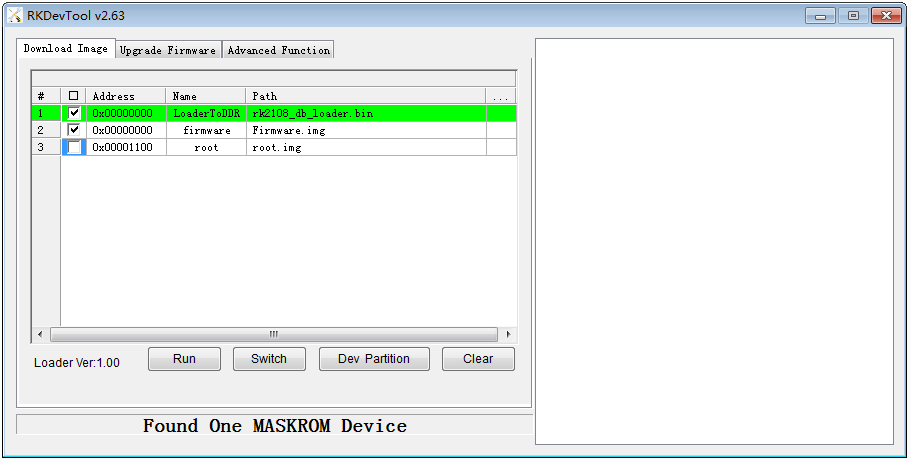
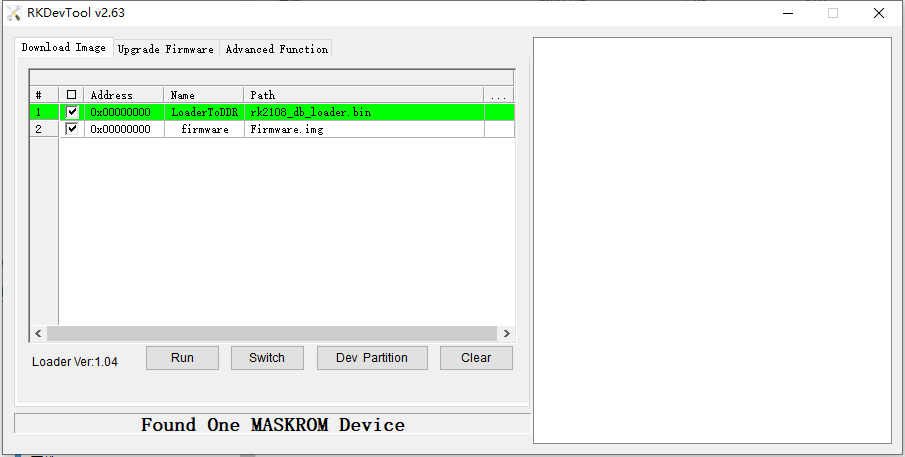
Dept3: Update Rockchip_RK2108_Quick_Start_RT-Thread V1.3.0
Add rootfs packaging instructions

Changed region(s): [[0.0, 0.0, 1.0, 1.0]]

diff --git a/Dept3/RTOS/RT-Thread/RK2108/Rockchip_RK2108_Quick_Start_RT-Thread_CN/Rockchip_RK2108_Quick_Start_RT-Thread_EN.md b/Dept3/RTOS/RT-Thread/RK2108/Rockchip_RK2108_Quick_Start_RT-Thread_CN/Rockchip_RK2108_Quick_Start_RT-Thread_EN.md
@@ -2,9 +2,9 @@
 
 ID: RK-JC-YF-362
 
-Release Version: V1.2.0
+Release Version: V1.3.0
 
-Release Date: 2020-06-11
+Release Date: 2020-12-30
 
 Security Level: □Top-Secret   □Secret   □Internal   ■Public
 
@@ -58,11 +58,12 @@ Software development engineers
 
 **Revision History**
 
-| **Date**   | **Version** | **Author**  | **Revision History**        |
-| ---------- | ----------- | ----------- | --------------------------- |
-| 2019-02-20 | V1.0.0      | Cliff Chen  | Initial version             |
-| 2020-05-14 | V1.1.0      | Chris Zhong | Delete unnecessary chapters |
-| 2020-06-11 | V1.2.0      | Ruby Zhang  | Update the company name     |
+| **Date**   | **Version** | **Author**  | **Revision History**              |
+| ---------- | ----------- | ----------- | --------------------------------- |
+| 2019-02-20 | V1.0.0      | Cliff Chen  | Initial version                   |
+| 2020-05-14 | V1.1.0      | Chris Zhong | Delete unnecessary chapters       |
+| 2020-06-11 | V1.2.0      | Ruby Zhang  | Update the company name           |
+| 2020-12-30 | V1.3.0      | Jair Wu     | Add rootfs packaging instructions |
 
 ---
 
@@ -231,6 +232,10 @@ scons -h
 
 The purpose of firmware packaging is to package various firmwares required by the system, such as partition table, loader, OS and root file system. The firmware packaging script of RK2108 is: bsp/rockchip/rk2108/mkimage.sh. The current building script will automatically trigger the firmware packaging after building is completed, so you only need to execute the `./build.sh` command once to complete the building and packaging.
 
+### Rootfs Package
+
+The rootfs packaging script is: bsp/rockchip/rk2108/mkroot.sh, enter the directory bsp/rockchip/rk2108, excute `./mkroot.sh resource/userdata/normal board/common/setting.ini`, the root.img will be generated in Image/. The script will make the file or directory in the specified directory into a Fat format file system, the size of root.img is determined by the PartSize of root partition in setting.ini.
+
 ## Firmware Flash
 
 Before flashing the firmware, the board should be in upgrade mode. RK2108 supports two upgrade modes: Loader mode and MaskRom mode. The following are the ways to enter these 2 modes:
@@ -268,6 +273,10 @@ The first item“LoaderToDDR” select  bsp/rockchip/rk2108/Image/rk2108_db_load
 
 The second item “Firmware” select  bsp/rockchip/rk2108/Image/Firmware.img.
 
+![windows_upgrade_withroot](./resources/windows_upgrade_withroot_EN.png)
+
+If rootfs is needed, right-click the blank of the tool, add item, the Name is "rootfs", the Path is bsp/rockchip/rk2108/Image/root.img, the Address is the PartOffset of root partition in setting.ini under the board directory which you use (if the file not exist, the default choice is board/common/setting.ini), take board/common/setting.ini as example, the Address should be 0x1100.
+
 ### Linux Upgrade Tool and Command
 
 The following script can be used to complete the firmware flashing under the Linux system:
@@ -284,6 +293,18 @@ Actually, it called the following command to complete the flashing:
 ../tools/upgrade_tool wl 0 Image/Firmware.img
 ../tools/upgrade_tool rd
 ```
+
+If rootfs is needed, refer to these commands as follows:
+
+```shell
+#!/bin/sh
+../tools/upgrade_tool db Image/rk2108_db_loader.bin
+../tools/upgrade_tool wl 0 Image/Firmware.img
+../tools/upgrade_tool wl 0x1100 Image/root.img
+../tools/upgrade_tool rd
+```
+
+Please refer to [Windows Upgrade Tool](# Windows Upgrade Tool) for the description of the address.
 
 ## Run and Debug
 

diff --git a/Dept3/RTOS/RT-Thread/RK2108/Rockchip_RK2108_Quick_Start_RT-Thread_CN/Rockchip_RK2108_Quick_Start_RT-Thread_CN.md b/Dept3/RTOS/RT-Thread/RK2108/Rockchip_RK2108_Quick_Start_RT-Thread_CN/Rockchip_RK2108_Quick_Start_RT-Thread_CN.md
@@ -2,9 +2,9 @@
 
 文档标识：RK-JC-YF-362
 
-发布版本：V1.2.0
+发布版本：V1.3.0
 
-日期：2020-06-11
+日期：2020-12-30
 
 文件密级：□绝密   □秘密   □内部资料   ■公开
 
@@ -64,11 +64,12 @@ Rockchip Electronics Co., Ltd.
 
 **修订记录**
 
-| **日期**   | **版本** | **作者**    | **修改说明** |
-| ---------- | -------- | ----------- | ------------ |
-| 2019-02-20 | V1.0.0   | Cliff Chen  | 初始版本     |
-| 2020-05-14 | V1.1.0   | Chris Zhong | 删除冗余章节 |
-| 2020-06-11 | V1.2.0   | Ruby Zhang  | 更新公司名称 |
+| **日期**   | **版本** | **作者**    | **修改说明**         |
+| ---------- | -------- | ----------- | -------------------- |
+| 2019-02-20 | V1.0.0   | Cliff Chen  | 初始版本             |
+| 2020-05-14 | V1.1.0   | Chris Zhong | 删除冗余章节         |
+| 2020-06-11 | V1.2.0   | Ruby Zhang  | 更新公司名称         |
+| 2020-12-30 | V1.3.0   | Jair Wu     | 新增文件系统打包说明 |
 
 ---
 
@@ -237,6 +238,10 @@ scons -h
 
    固件打包是为了把系统需要的各种固件打包在一起，如分区表、loader、OS和根文件系统，RK2108 的固件打包脚本是：bsp/rockchip/rk2108/mkimage.sh 。目前的编译脚本在编译完成后会自动触发固件打包，因此只需执行一次 ./build.sh 命令即可完成编译和打包。
 
+### 文件系统打包
+
+文件系统打包脚本是：bsp/rockchip/rk2108/mkroot.sh，进入bsp/rockchip/rk2108目录下，执行`./mkroot.sh resource/userdata/normal board/common/setting.ini`，即会在Image目录下生成root.img文件。该脚本将指定目录下的文件或目录制作成Fat格式的文件系统，大小为setting.ini中设定的root分区PartSize的值。
+
 ## 固件烧录
 
    在烧录固件前，需要让板子进入到升级模式，RK2108 支持两种升级模式：Loader 模式和 MaskRom 模式。下面是进入到2种模式的方法：
@@ -268,11 +273,15 @@ scons -h
 
    打开 bsp/rockchip/tools 目录下的 Rockchip_Develop_Tool_v2.63，如首次使用此工具，需要安装它目录下的驱动：DriverAssitant_v4.91。打开升级工具：
 
-![windows_upgrade](./resources/windows_upgrade.png)
+![windows_upgrade](./resources/windows_upgradeCN.png)
 
 第1项“LoaderToDDR”选择 bsp/rockchip/rk2108/Image/rk2108_db_loader.bin。
 
 第2项“Firmware”选择 bsp/rockchip/rk2108/Image/Firmware.img。
+
+![windows_upgrade_withroot_CN](./resources/windows_upgrade_withroot_CN.png)
+
+若有烧录文件系统的需要，可在工具空白处右键，添加项，名字为“rootfs”，路径为bsp/rockchip/rk2108/Image/root.img，地址为所使用的board目录下setting.ini中root分区的PartOffset（若文件不存在则默认为board/common/setting.ini），以board/common/setting.ini为例，烧录地址为0x1100。
 
 ### Linux版烧录工具及命令
 
@@ -290,6 +299,18 @@ bsp/rockchip/rk2108/update_fimeware.sh
 ../tools/upgrade_tool wl 0 Image/Firmware.img
 ../tools/upgrade_tool rd
 ```
+
+若有烧录文件系统的需要，参考如下命令：
+
+```shell
+#!/bin/sh
+../tools/upgrade_tool db Image/rk2108_db_loader.bin
+../tools/upgrade_tool wl 0 Image/Firmware.img
+../tools/upgrade_tool wl 0x1100 Image/root.img
+../tools/upgrade_tool rd
+```
+
+烧录地址说明见 [Windows版升级工具](# Windows版升级工具)。
 
 ## 运行调试
 
